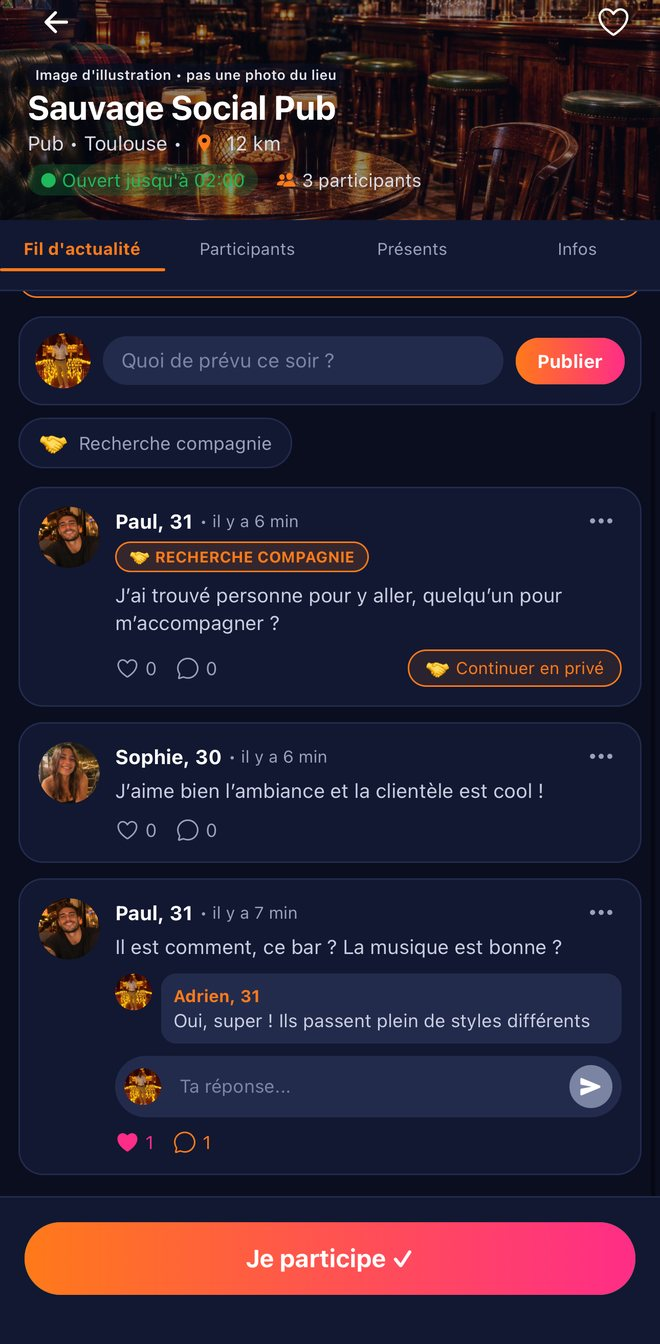
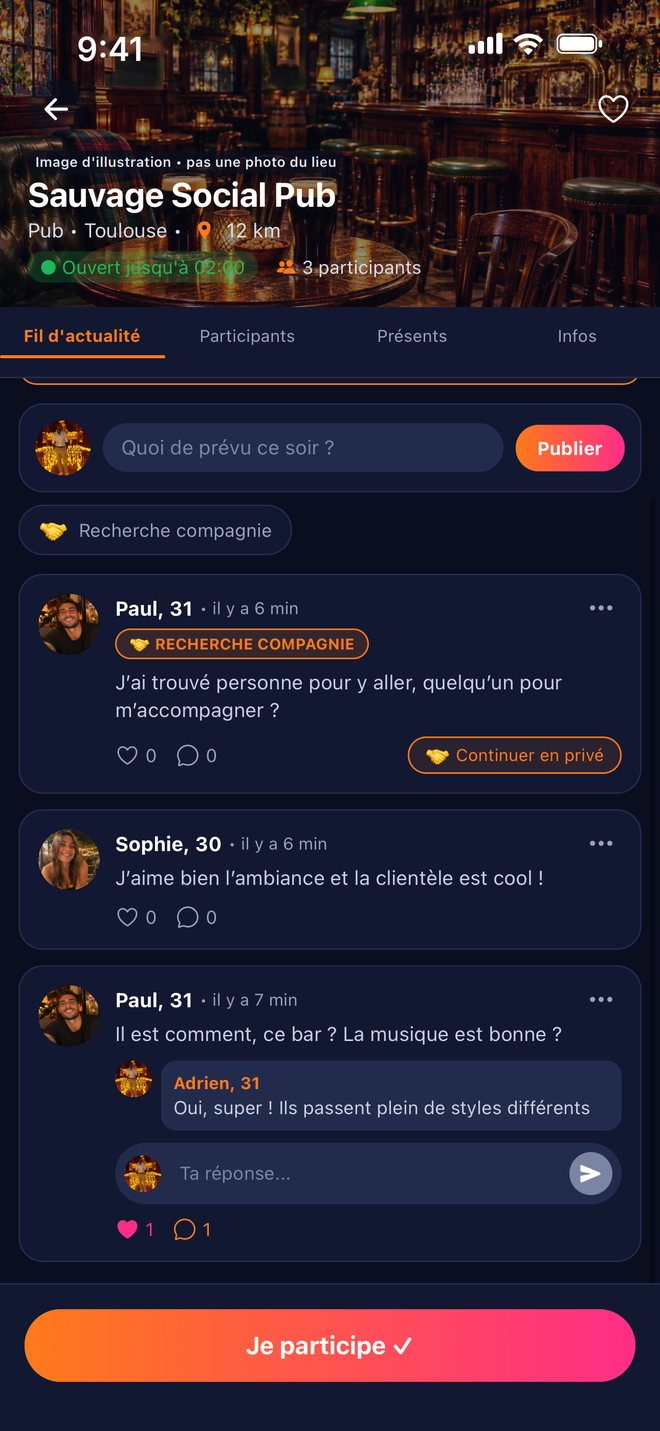
Add files via upload

diff --git a/index.html b/index.html
@@ -61,9 +61,6 @@
   /* ---------- Téléphone ---------- */
   .telephone { position: relative; width: min(300px, 78vw); aspect-ratio: 1290 / 2796; border-radius: 46px; background: #05070F; padding: 10px; box-shadow: 0 0 0 2px #2a2f45, 0 40px 80px -30px rgba(0,0,0,.8), 0 0 90px -20px rgba(255,45,135,.35); margin: 0 auto; }
   .telephone .ecran { position: relative; width: 100%; height: 100%; border-radius: 37px; overflow: hidden; background: var(--fond); }
-  .telephone .statut { position: absolute; top: 0; left: 0; right: 0; height: 6.1%; z-index: 2; display: flex; align-items: center; justify-content: space-between; padding: 0 9% 0 11%; font: 600 13px Inter, sans-serif; color: #fff; background: linear-gradient(180deg, rgba(0,0,0,.55), rgba(0,0,0,0)); }
-  .telephone .statut .icones { display: flex; gap: 5px; align-items: center; }
-  .telephone .statut .icones span { display: block; background: #fff; border-radius: 2px; }
   .telephone .ile { position: absolute; top: 1.6%; left: 50%; transform: translateX(-50%); width: 31%; height: 3.4%; background: #000; border-radius: 999px; z-index: 3; }
   .telephone img.capture { position: absolute; left: 0; bottom: 0; width: 100%; height: auto; display: block; }
   .heros .telephone { width: min(320px, 80vw); transform: rotate(3deg); }
@@ -173,7 +170,7 @@
         <p class="mention-ville">Gratuit · iPhone · Toulouse d'abord</p>
       </div>
       <div class="apparait">
-        <div class="telephone"><div class="ecran"><div class="ile"></div><div class="statut"><span>9:41</span><span class="icones"><span style="width:3px;height:6px"></span><span style="width:3px;height:8px"></span><span style="width:3px;height:10px"></span><span style="width:20px;height:10px;border-radius:3px"></span></span></div><img class="capture" src="img/accueil.jpg" alt="Écran d'accueil d'Ouzou : les bars autour de toi ce soir, avec le nombre de participants"></div></div>
+        <div class="telephone"><div class="ecran"><div class="ile"></div><img class="capture" src="img/accueil.jpg" alt="Écran d'accueil d'Ouzou : les bars autour de toi ce soir, avec le nombre de participants"></div></div>
       </div>
     </div>
   </section>
@@ -199,8 +196,8 @@
           </ul>
         </div>
         <div class="duo">
-          <div class="telephone"><div class="ecran"><div class="ile"></div><div class="statut"><span>9:41</span><span class="icones"><span style="width:3px;height:6px"></span><span style="width:3px;height:8px"></span><span style="width:3px;height:10px"></span><span style="width:20px;height:10px;border-radius:3px"></span></span></div><img class="capture" src="img/accueil.jpg" alt="Liste des bars avec participants"></div></div>
-          <div class="telephone"><div class="ecran"><div class="ile"></div><div class="statut"><span>9:41</span><span class="icones"><span style="width:3px;height:6px"></span><span style="width:3px;height:8px"></span><span style="width:3px;height:10px"></span><span style="width:20px;height:10px;border-radius:3px"></span></span></div><img class="capture" src="img/fil.jpg" alt="Fil d'actualité d'un bar"></div></div>
+          <div class="telephone"><div class="ecran"><div class="ile"></div><img class="capture" src="img/accueil.jpg" alt="Liste des bars avec participants"></div></div>
+          <div class="telephone"><div class="ecran"><div class="ile"></div><img class="capture" src="img/fil.jpg" alt="Fil d'actualité d'un bar"></div></div>
         </div>
       </div>
 
@@ -216,8 +213,8 @@
           </ul>
         </div>
         <div class="duo">
-          <div class="telephone"><div class="ecran"><div class="ile"></div><div class="statut"><span>9:41</span><span class="icones"><span style="width:3px;height:6px"></span><span style="width:3px;height:8px"></span><span style="width:3px;height:10px"></span><span style="width:20px;height:10px;border-radius:3px"></span></span></div><img class="capture" src="img/recherche.jpg" alt="Une Recherche compagnie publiée dans le fil d'un bar"></div></div>
-          <div class="telephone"><div class="ecran"><div class="ile"></div><div class="statut"><span>9:41</span><span class="icones"><span style="width:3px;height:6px"></span><span style="width:3px;height:8px"></span><span style="width:3px;height:10px"></span><span style="width:20px;height:10px;border-radius:3px"></span></span></div><img class="capture" src="img/presence.jpg" alt="Confirmer sa présence sur place"></div></div>
+          <div class="telephone"><div class="ecran"><div class="ile"></div><img class="capture" src="img/recherche.jpg" alt="Une Recherche compagnie publiée dans le fil d'un bar"></div></div>
+          <div class="telephone"><div class="ecran"><div class="ile"></div><img class="capture" src="img/presence.jpg" alt="Confirmer sa présence sur place"></div></div>
         </div>
       </div>
 
@@ -234,8 +231,8 @@
           </ul>
         </div>
         <div class="duo">
-          <div class="telephone"><div class="ecran"><div class="ile"></div><div class="statut"><span>9:41</span><span class="icones"><span style="width:3px;height:6px"></span><span style="width:3px;height:8px"></span><span style="width:3px;height:10px"></span><span style="width:20px;height:10px;border-radius:3px"></span></span></div><img class="capture" src="img/presents.jpg" alt="Onglet Présents : les personnes sur place"></div></div>
-          <div class="telephone"><div class="ecran"><div class="ile"></div><div class="statut"><span>9:41</span><span class="icones"><span style="width:3px;height:6px"></span><span style="width:3px;height:8px"></span><span style="width:3px;height:10px"></span><span style="width:20px;height:10px;border-radius:3px"></span></span></div><img class="capture" src="img/reponse.jpg" alt="Conversation lancée via Présents"></div></div>
+          <div class="telephone"><div class="ecran"><div class="ile"></div><img class="capture" src="img/presents.jpg" alt="Onglet Présents : les personnes sur place"></div></div>
+          <div class="telephone"><div class="ecran"><div class="ile"></div><img class="capture" src="img/reponse.jpg" alt="Conversation lancée via Présents"></div></div>
         </div>
       </div>
     </div>
@@ -254,7 +251,7 @@
             <li>Les lieux animés ressortent avec leur nombre de participants</li>
           </ul>
         </div>
-        <div><div class="telephone"><div class="ecran"><div class="ile"></div><div class="statut"><span>9:41</span><span class="icones"><span style="width:3px;height:6px"></span><span style="width:3px;height:8px"></span><span style="width:3px;height:10px"></span><span style="width:20px;height:10px;border-radius:3px"></span></span></div><img class="capture" src="img/carte.jpg" alt="Carte des boîtes de Toulouse avec les participants"></div></div></div>
+        <div><div class="telephone"><div class="ecran"><div class="ile"></div><img class="capture" src="img/carte.jpg" alt="Carte des boîtes de Toulouse avec les participants"></div></div></div>
       </div>
     </div>
   </section>
@@ -268,7 +265,7 @@
         <p>Sortir, oui. Être harcelé, non. Ouzou est pensé pour que chacun se sente à l'aise.</p>
       </div>
       <div class="grille">
-        <div class="apparait"><div class="telephone"><div class="ecran"><div class="ile"></div><div class="statut"><span>9:41</span><span class="icones"><span style="width:3px;height:6px"></span><span style="width:3px;height:8px"></span><span style="width:3px;height:10px"></span><span style="width:20px;height:10px;border-radius:3px"></span></span></div><img class="capture" src="img/demande.jpg" alt="Demande de message avec les boutons Accepter et Refuser"></div></div></div>
+        <div class="apparait"><div class="telephone"><div class="ecran"><div class="ile"></div><img class="capture" src="img/demande.jpg" alt="Demande de message avec les boutons Accepter et Refuser"></div></div></div>
         <div class="cartes apparait">
           <div class="carte"><div class="icone">✉</div><h3>Un seul message</h3><p>Une personne que tu ne connais pas ne peut t'envoyer qu'un message. Rien d'autre tant que tu n'as pas accepté.</p></div>
           <div class="carte"><div class="icone">✅</div><h3>Profils vérifiés</h3><p>Le badge orange : un selfie avec un geste, comparé à la main aux photos du profil.</p></div>
